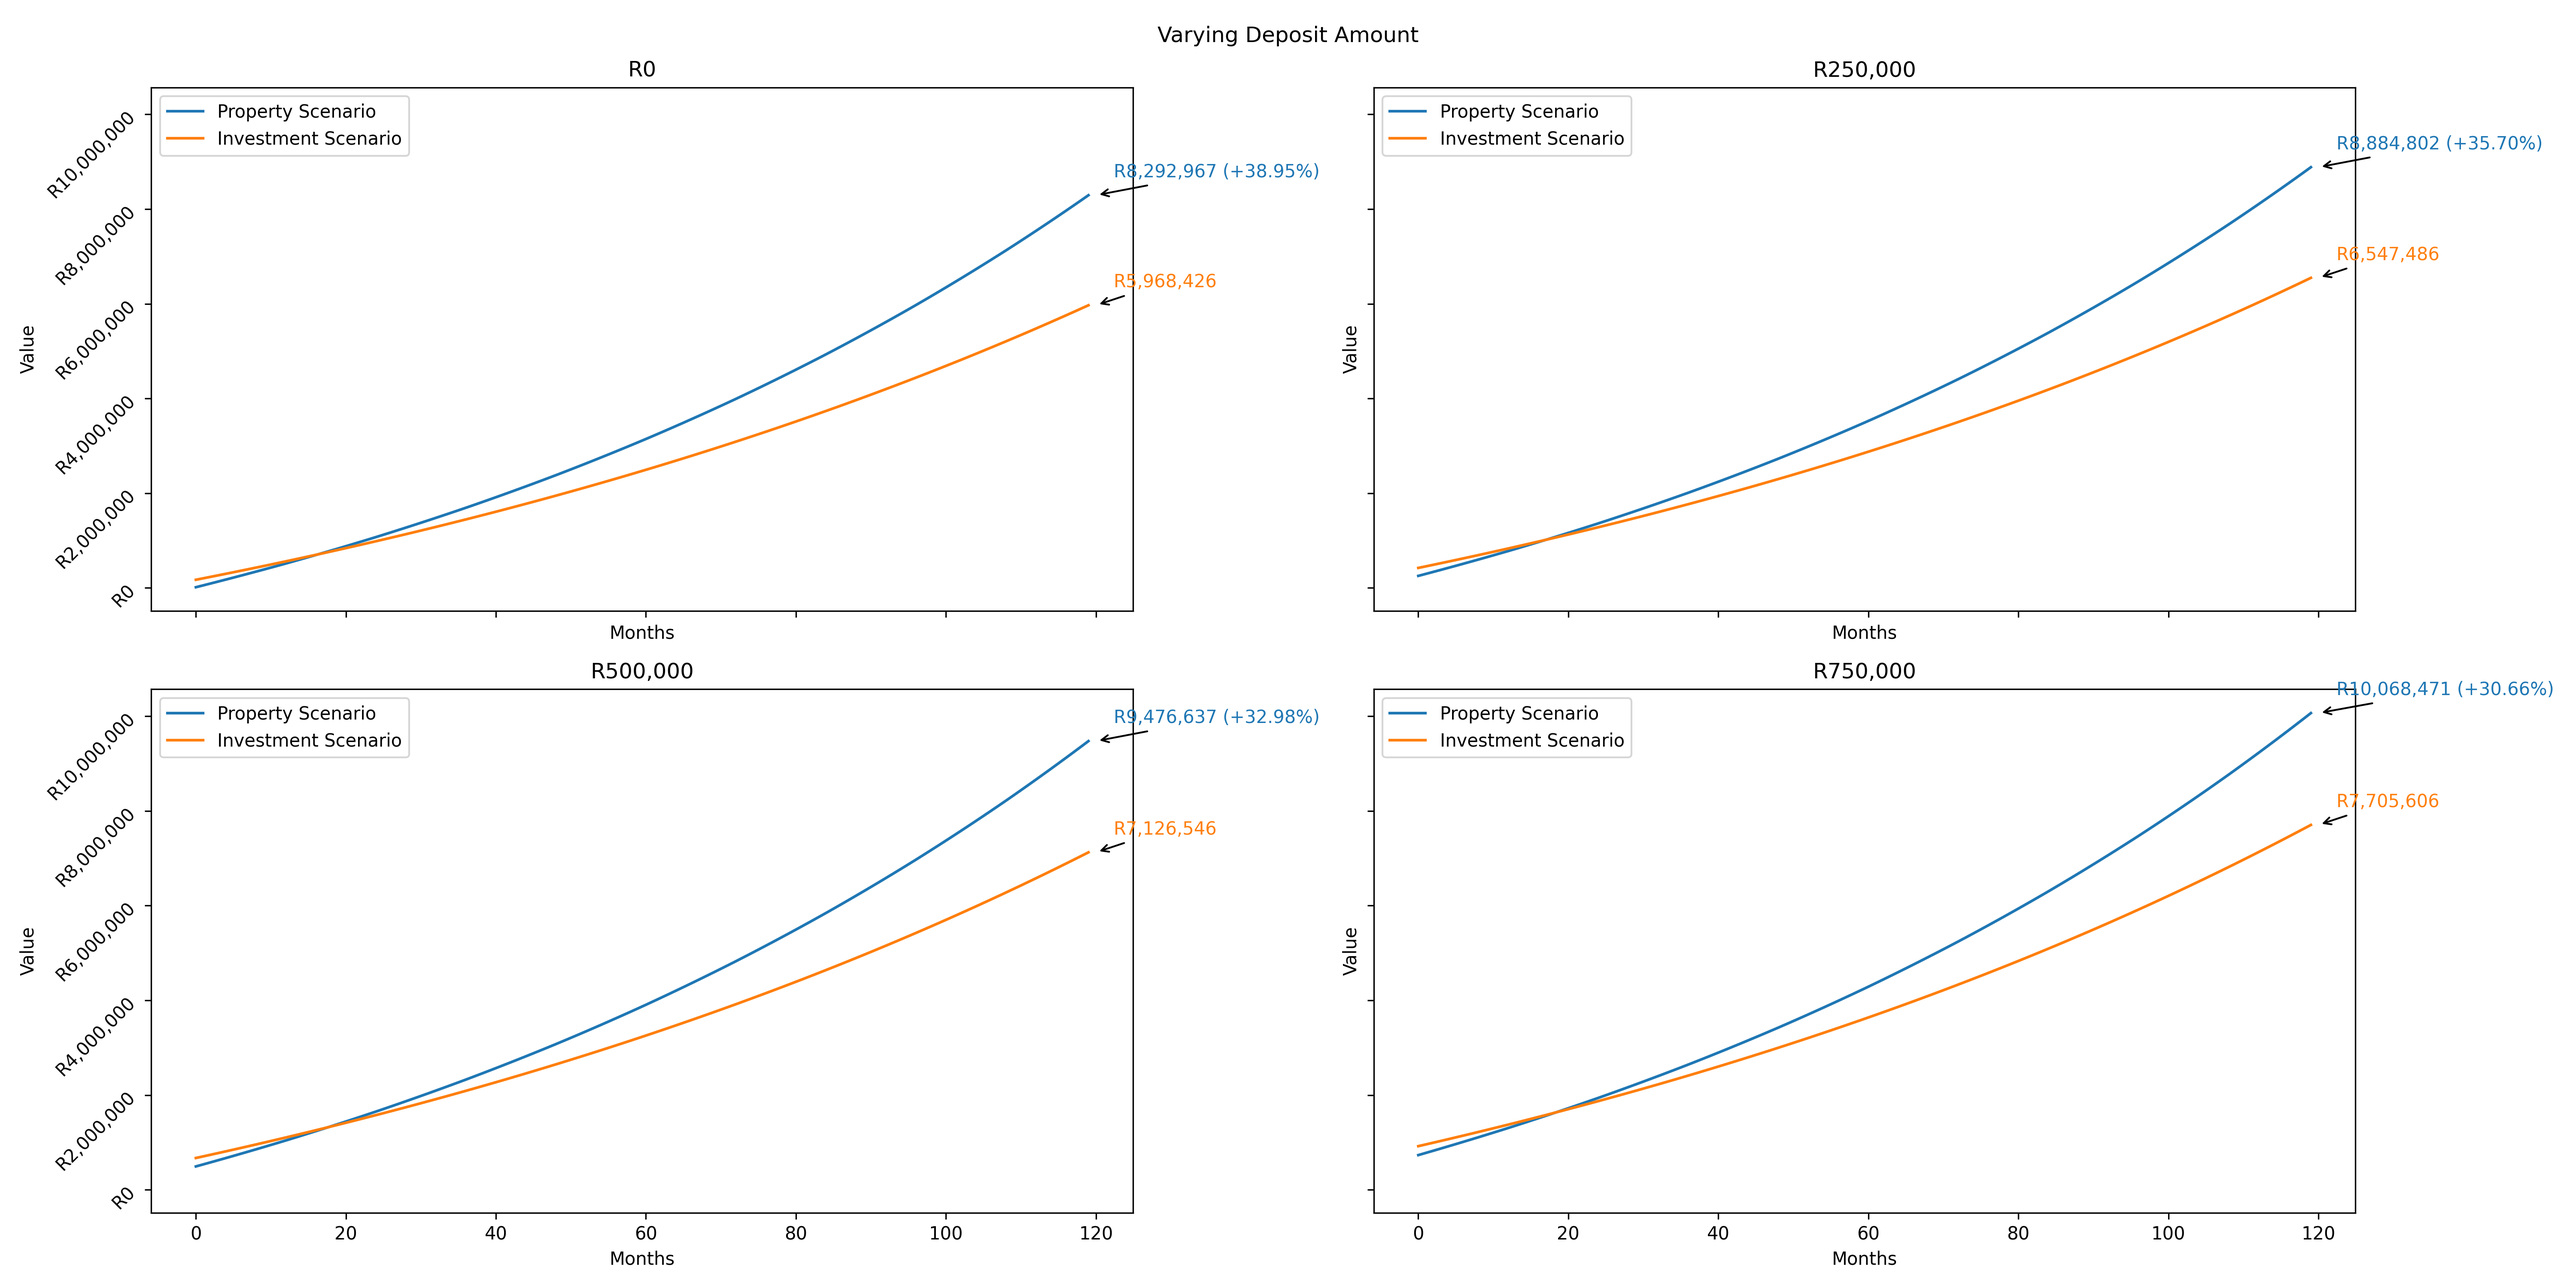
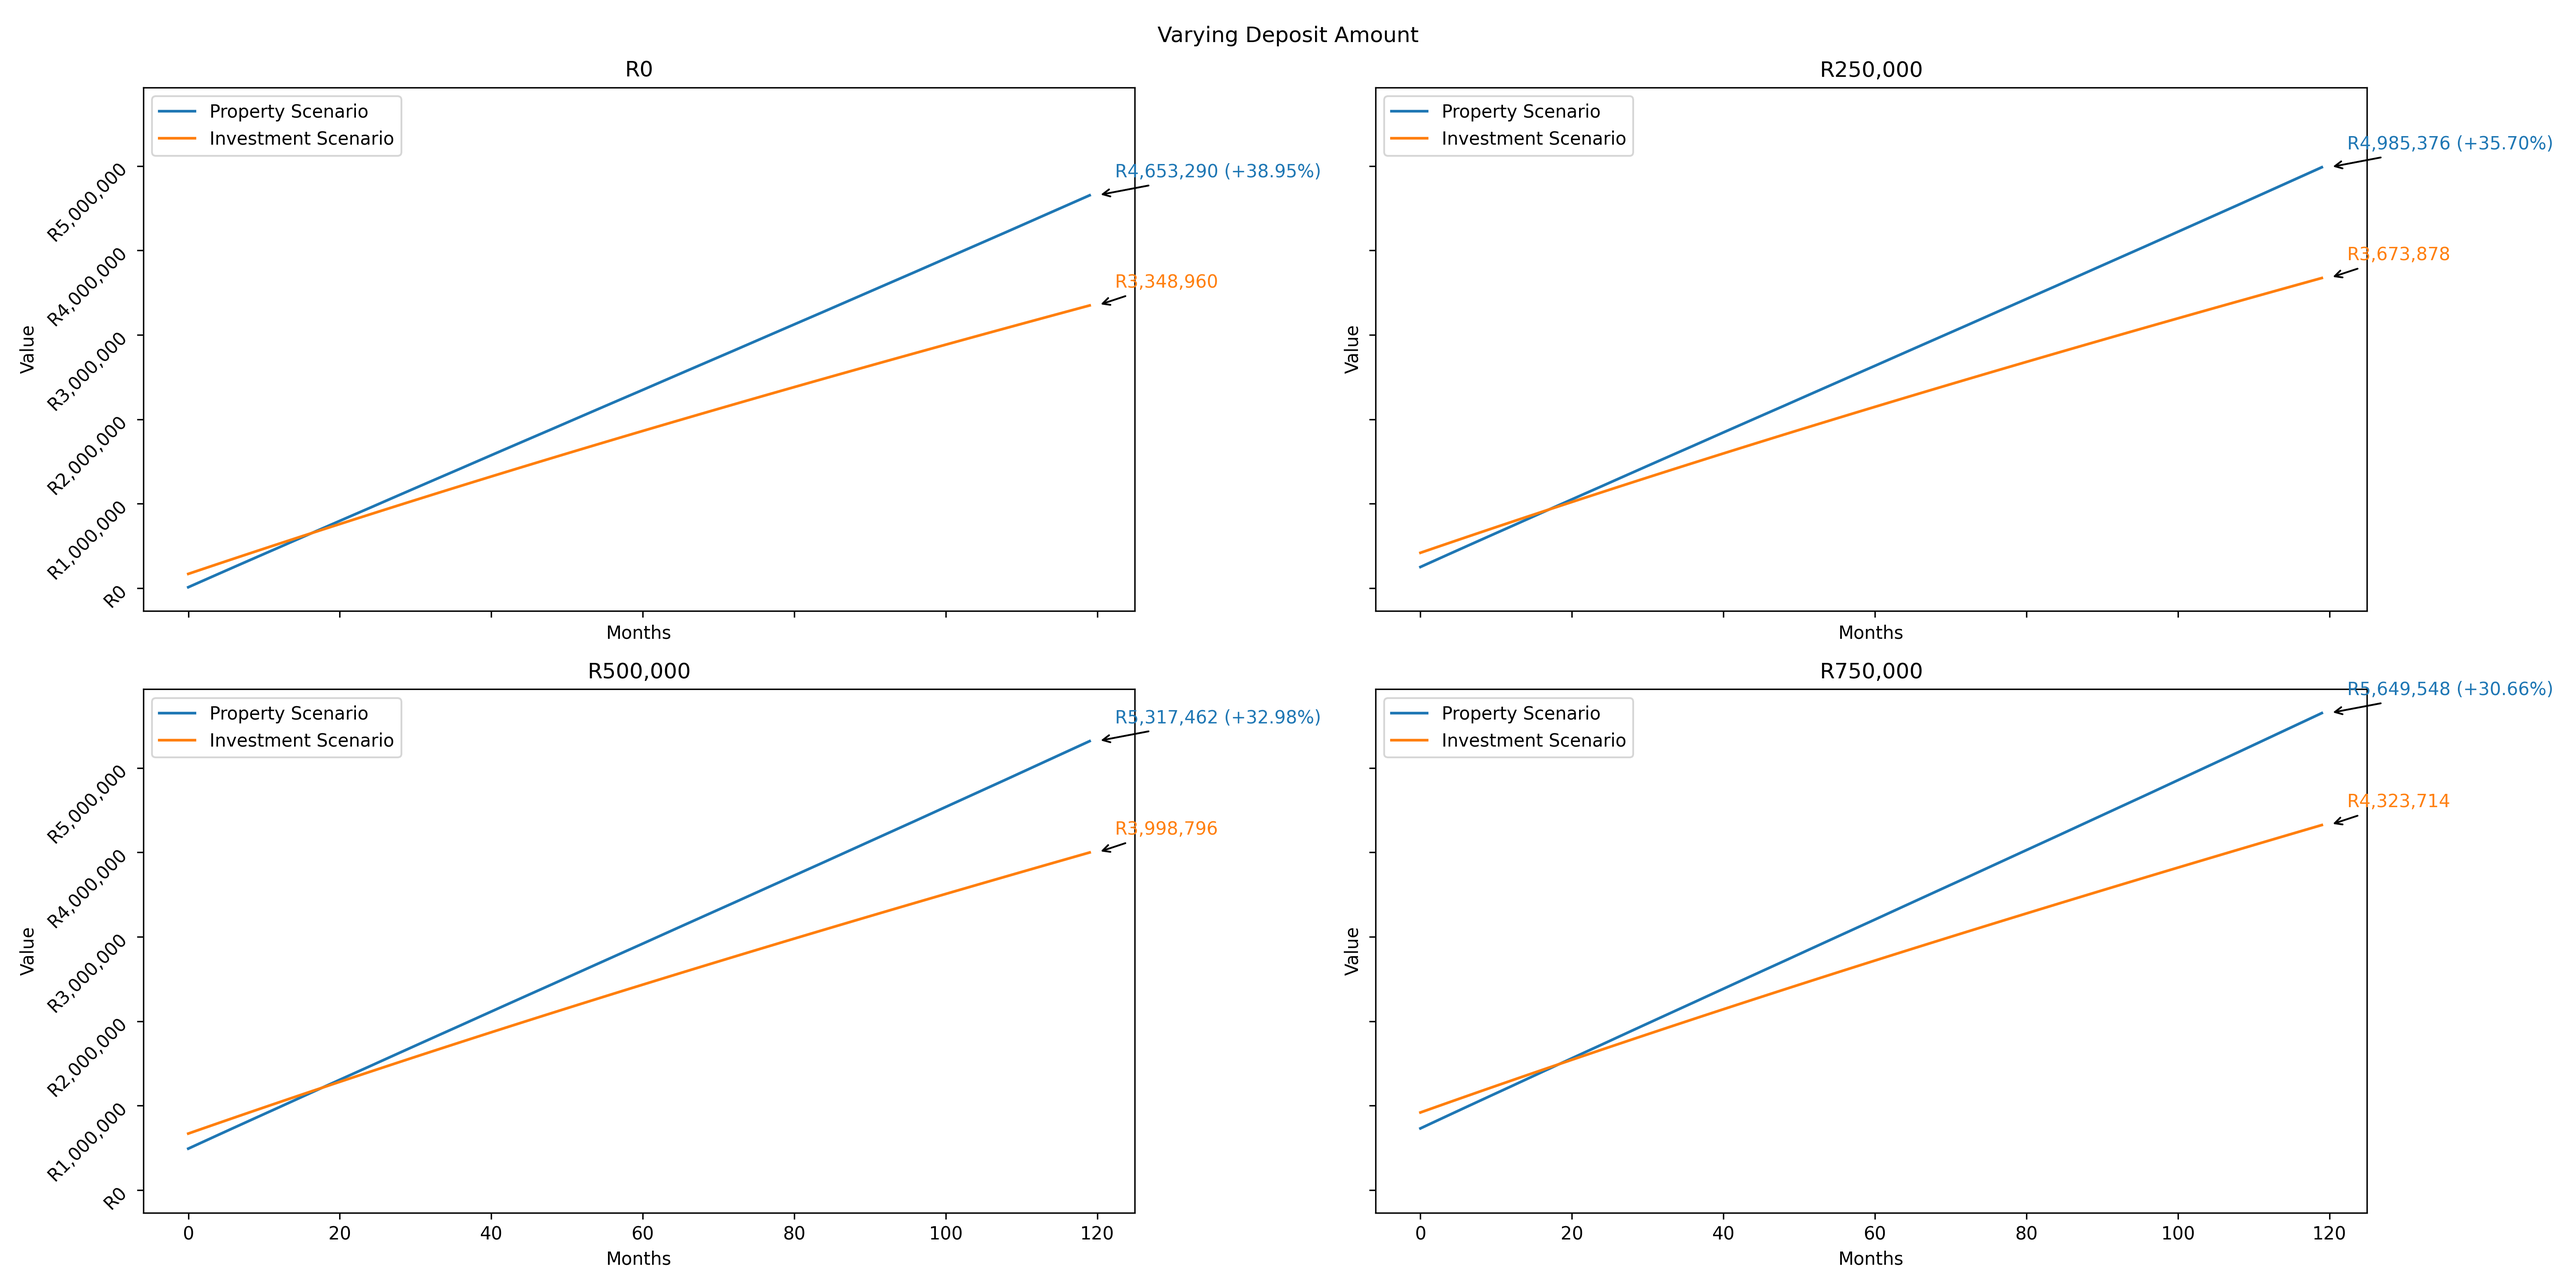
add inflation assumption to calculate real values for both scenarios

diff --git a/forecast/forecast.py b/forecast/forecast.py
@@ -47,6 +47,7 @@ class InvestmentAssumptions:
     :param property_sale_commission_rate: Commission percent for property sale
     :param rental_escalation_rate: Annual escalation rate for rental.
     :param property_expenses_escalation_rate: Annual escalation rate for property expenses.
+    :param inflation_rate: The annual inflation rate used to calculate real values.
     """
 
     income_surplus: float
@@ -66,6 +67,7 @@ class InvestmentAssumptions:
     property_sale_commission_rate: float
     rental_escalation_rate: float
     property_expenses_escalation_rate: float
+    inflation_rate: float
 
 
 def calculate_bond_repayment(principal: float, r: float, n: int) -> float:
@@ -161,6 +163,11 @@ def forecast_investment_values(
     investment_total_value = [
         monthly_investment_in_stocks + property_costs + assumptions.deposit
     ]
+    property_total_value_real = [property_total_value[0]]
+    investment_total_value_real = [investment_total_value[0]]
+
+    # Convert annual inflation rate to monthly
+    monthly_inflation_rate = (1 + assumptions.inflation_rate) ** (1 / 12) - 1
 
     # Simulating property value and investment in stocks over time
     for i in range(1, n_months):
@@ -221,8 +228,15 @@ def forecast_investment_values(
         )
         investment_total_value.append(investment_in_stocks)
 
+        # Adjust for inflation at the end of each month
+        inflation_adjustment = (1 + monthly_inflation_rate) ** i
+        property_total_value_real.append(property_total_value[i] / inflation_adjustment)
+        investment_total_value_real.append(
+            investment_total_value[i] / inflation_adjustment
+        )
+
     return ForecastScenario(
         label=label,
-        property_values=property_total_value,
-        investment_values=investment_total_value,
+        property_values=property_total_value_real,
+        investment_values=investment_total_value_real,
     )

diff --git a/forecast/main.py b/forecast/main.py
@@ -6,7 +6,7 @@ from forecast import InvestmentAssumptions, forecast_investment_values
 from forecast.plot import plot_forecast, plot_multiple_forecasts
 from forecast.utils import format_rand_value, format_rate, setup_logger
 
-logger = setup_logger(None)
+logger = setup_logger()
 
 
 def generate_and_plot_forecasts(
@@ -54,6 +54,7 @@ if __name__ == "__main__":
         property_sale_commission_rate=0.05,
         rental_escalation_rate=0.05,
         property_expenses_escalation_rate=0.05,
+        inflation_rate=0.06,
     )
     assumptions = InvestmentAssumptions(**kwargs)
     forecast = forecast_investment_values(assumptions, label="Baseline")

diff --git a/forecast/utils.py b/forecast/utils.py
@@ -3,7 +3,9 @@ import sys
 from typing import Union
 
 
-def setup_logger(logger_name: Union[str, None], level: Union[str, int] = logging.INFO):
+def setup_logger(
+    logger_name: Union[str, None] = None, level: Union[str, int] = logging.INFO
+):
     logger = logging.getLogger(logger_name)
     logger.setLevel(level)
 

diff --git a/README.md b/README.md
@@ -38,6 +38,7 @@ The package uses a set of assumptions to model the investment scenarios. These a
 - **Property Sale Commission Rate**: The commission percentage for property sale.
 - **Rental Escalation Rate**: The annual escalation rate for rental.
 - **Property Expenses Escalation Rate**: The annual escalation rate for property expenses.
+- **Inflation rate**: Assumed annual inflation rate used to calculate the real value of investments.
 
 ## Scenarios Compared
 
